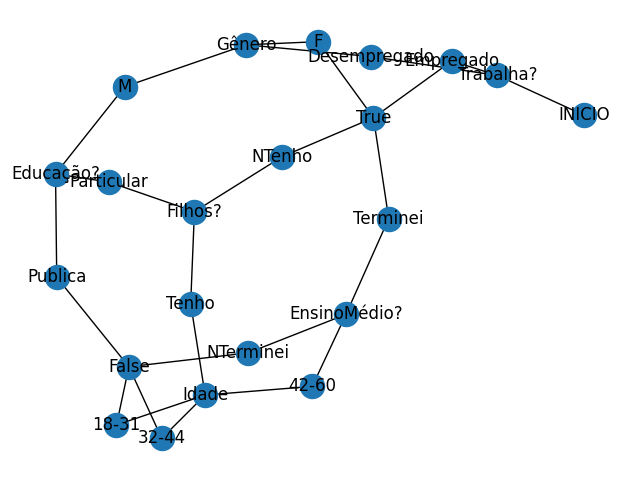
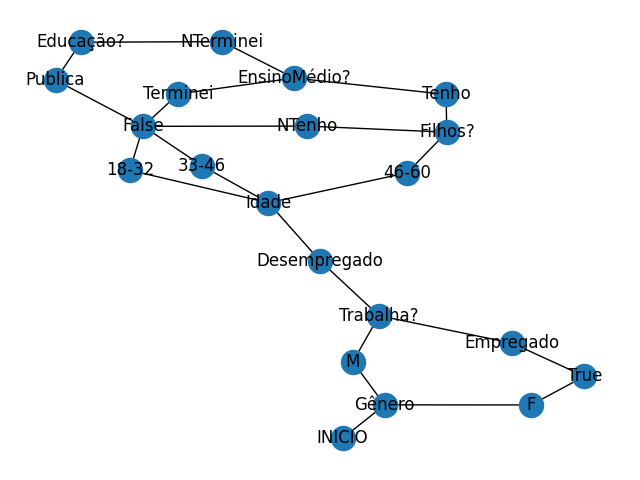
Segunda Versão

diff --git a/id3.py b/id3.py
@@ -6,7 +6,7 @@ import networkx as nx
 import pandas as pd
 
 #Base de treinamento
-Treinamento = pd.read_excel('c:/Users/moniq/Documents/UFAL/IA 2021.1/KDD/Treinamento.xlsx')
+Treinamento = pd.read_excel('c:/Users/moniq/Documents/UFAL/IA 2021.1/ID3/Treinamento.xlsx')
 
 grafo = nx.Graph()
 
@@ -103,39 +103,29 @@ def Entropia(Tabela,Atb,T):
 # ID3
 def ID3(Tabela,Atributos,Res,T,grafo,Atb_usado):
     Classes = Variaçoes(Tabela,Res,T)
-    #print(Classes)
     if len(Classes) > 1:
-        #print(len(Atributos))
         if len(Atributos) > 0:
-            esc = 0.0
-            menor_E = 99999999
+            maior_E = -1
             for g in Atributos:
-                #print(g)
                 esc=Entropia_total(Tabela,Res,g,T)
-                if esc < menor_E:
+                if esc > maior_E:
                     z = g 
-                    menor_E=esc
+                    maior_E=esc
 
             Atb = Variaçoes(Tabela,z,T)
             groups = Tabela.groupby(z)
             Atributos.remove(z)
-            #print(Atributos)
             grafo.add_node(z)
             grafo.add_edge(Atb_usado,z)
             for i in Atb:
                 #print(i)
                 b = groups.get_group(i)
-                
-                grafo.add_node(i)
-                #print(grafo.nodes())
-                
                 b.reset_index(inplace=True, drop=True)
                 b.loc[:, ~b.columns.str.match('Unnamed')]
-                c = b[[z,Res]]
-                #print(c.head(160))
                 b = b.drop(columns=[z])
                 T = b[b.columns[0]].count()
                 ID3(b,Atributos,Res,T,grafo,i)
+                grafo.add_node(i)
                 grafo.add_edge(z,i)
                 
         else:
@@ -176,7 +166,7 @@ def Menu():
     Atributos = ['Idade', 'Gênero', 'Trabalha?', 'Filhos?','EnsinoMédio?','Educação?']
     #print(Atributos)
     ID3(Tabela,Atributos,Res,T,grafo,"INICIO")
-    pos = nx.spring_layout(grafo, seed=10)
+    pos = nx.spring_layout(grafo, seed=200)
     nx.draw(grafo,pos,with_labels=True)
     plt.savefig("grafo.png")
 

diff --git a/kdd.py b/kdd.py
@@ -1,7 +1,7 @@
 import random
 import pandas as pd
 
-tab = pd.read_excel('c:/Users/moniq/Documents/UFAL/IA 2021.1/KDD/tabela.xlsx')
+tab = pd.read_excel('c:/Users/moniq/Documents/UFAL/IA 2021.1/ID3/tabela.xlsx')
 
 # Retirada de Colunas(Atributos) indesejadas
 tab.drop(columns=["ID","Nome","Endereço","Email"],inplace=True)
@@ -11,12 +11,12 @@ tab.drop(columns=["ID","Nome","Endereço","Email"],inplace=True)
 # Transformando Coluna idade para faixa etaria
 #print(tab.loc[0:199,["Idade"]])
 for x in range(200):
-    if tab.loc[x,"Idade"] <= 31:
-        tab.loc[x,"Idade"] = "18-31"
-    elif tab.loc[x,"Idade"] > 31 and tab.loc[x,"Idade"]<= 44:
-        tab.loc[x,"Idade"] = "32-44"
+    if tab.loc[x,"Idade"] <= 32:
+        tab.loc[x,"Idade"] = "18-32"
+    elif tab.loc[x,"Idade"] > 32 and tab.loc[x,"Idade"]<= 46:
+        tab.loc[x,"Idade"] = "33-46"
     else:
-        tab.loc[x,"Idade"] = "42-60"
+        tab.loc[x,"Idade"] = "46-60"
 #print(tab.loc[0:199,["Idade"]])
 #print(tab.head(200))
 

diff --git a/teste.py b/teste.py
@@ -5,7 +5,7 @@ import pandas as pd
 
 #Base de treinamento
 def Base():
-    Teste = pd.read_excel('c:/Users/moniq/Documents/UFAL/IA 2021.1/KDD/Teste.xlsx')
+    Teste = pd.read_excel('c:/Users/moniq/Documents/UFAL/IA 2021.1/ID3/Teste.xlsx')
     Teste.reset_index(inplace=True, drop=True)
     return Teste
 
